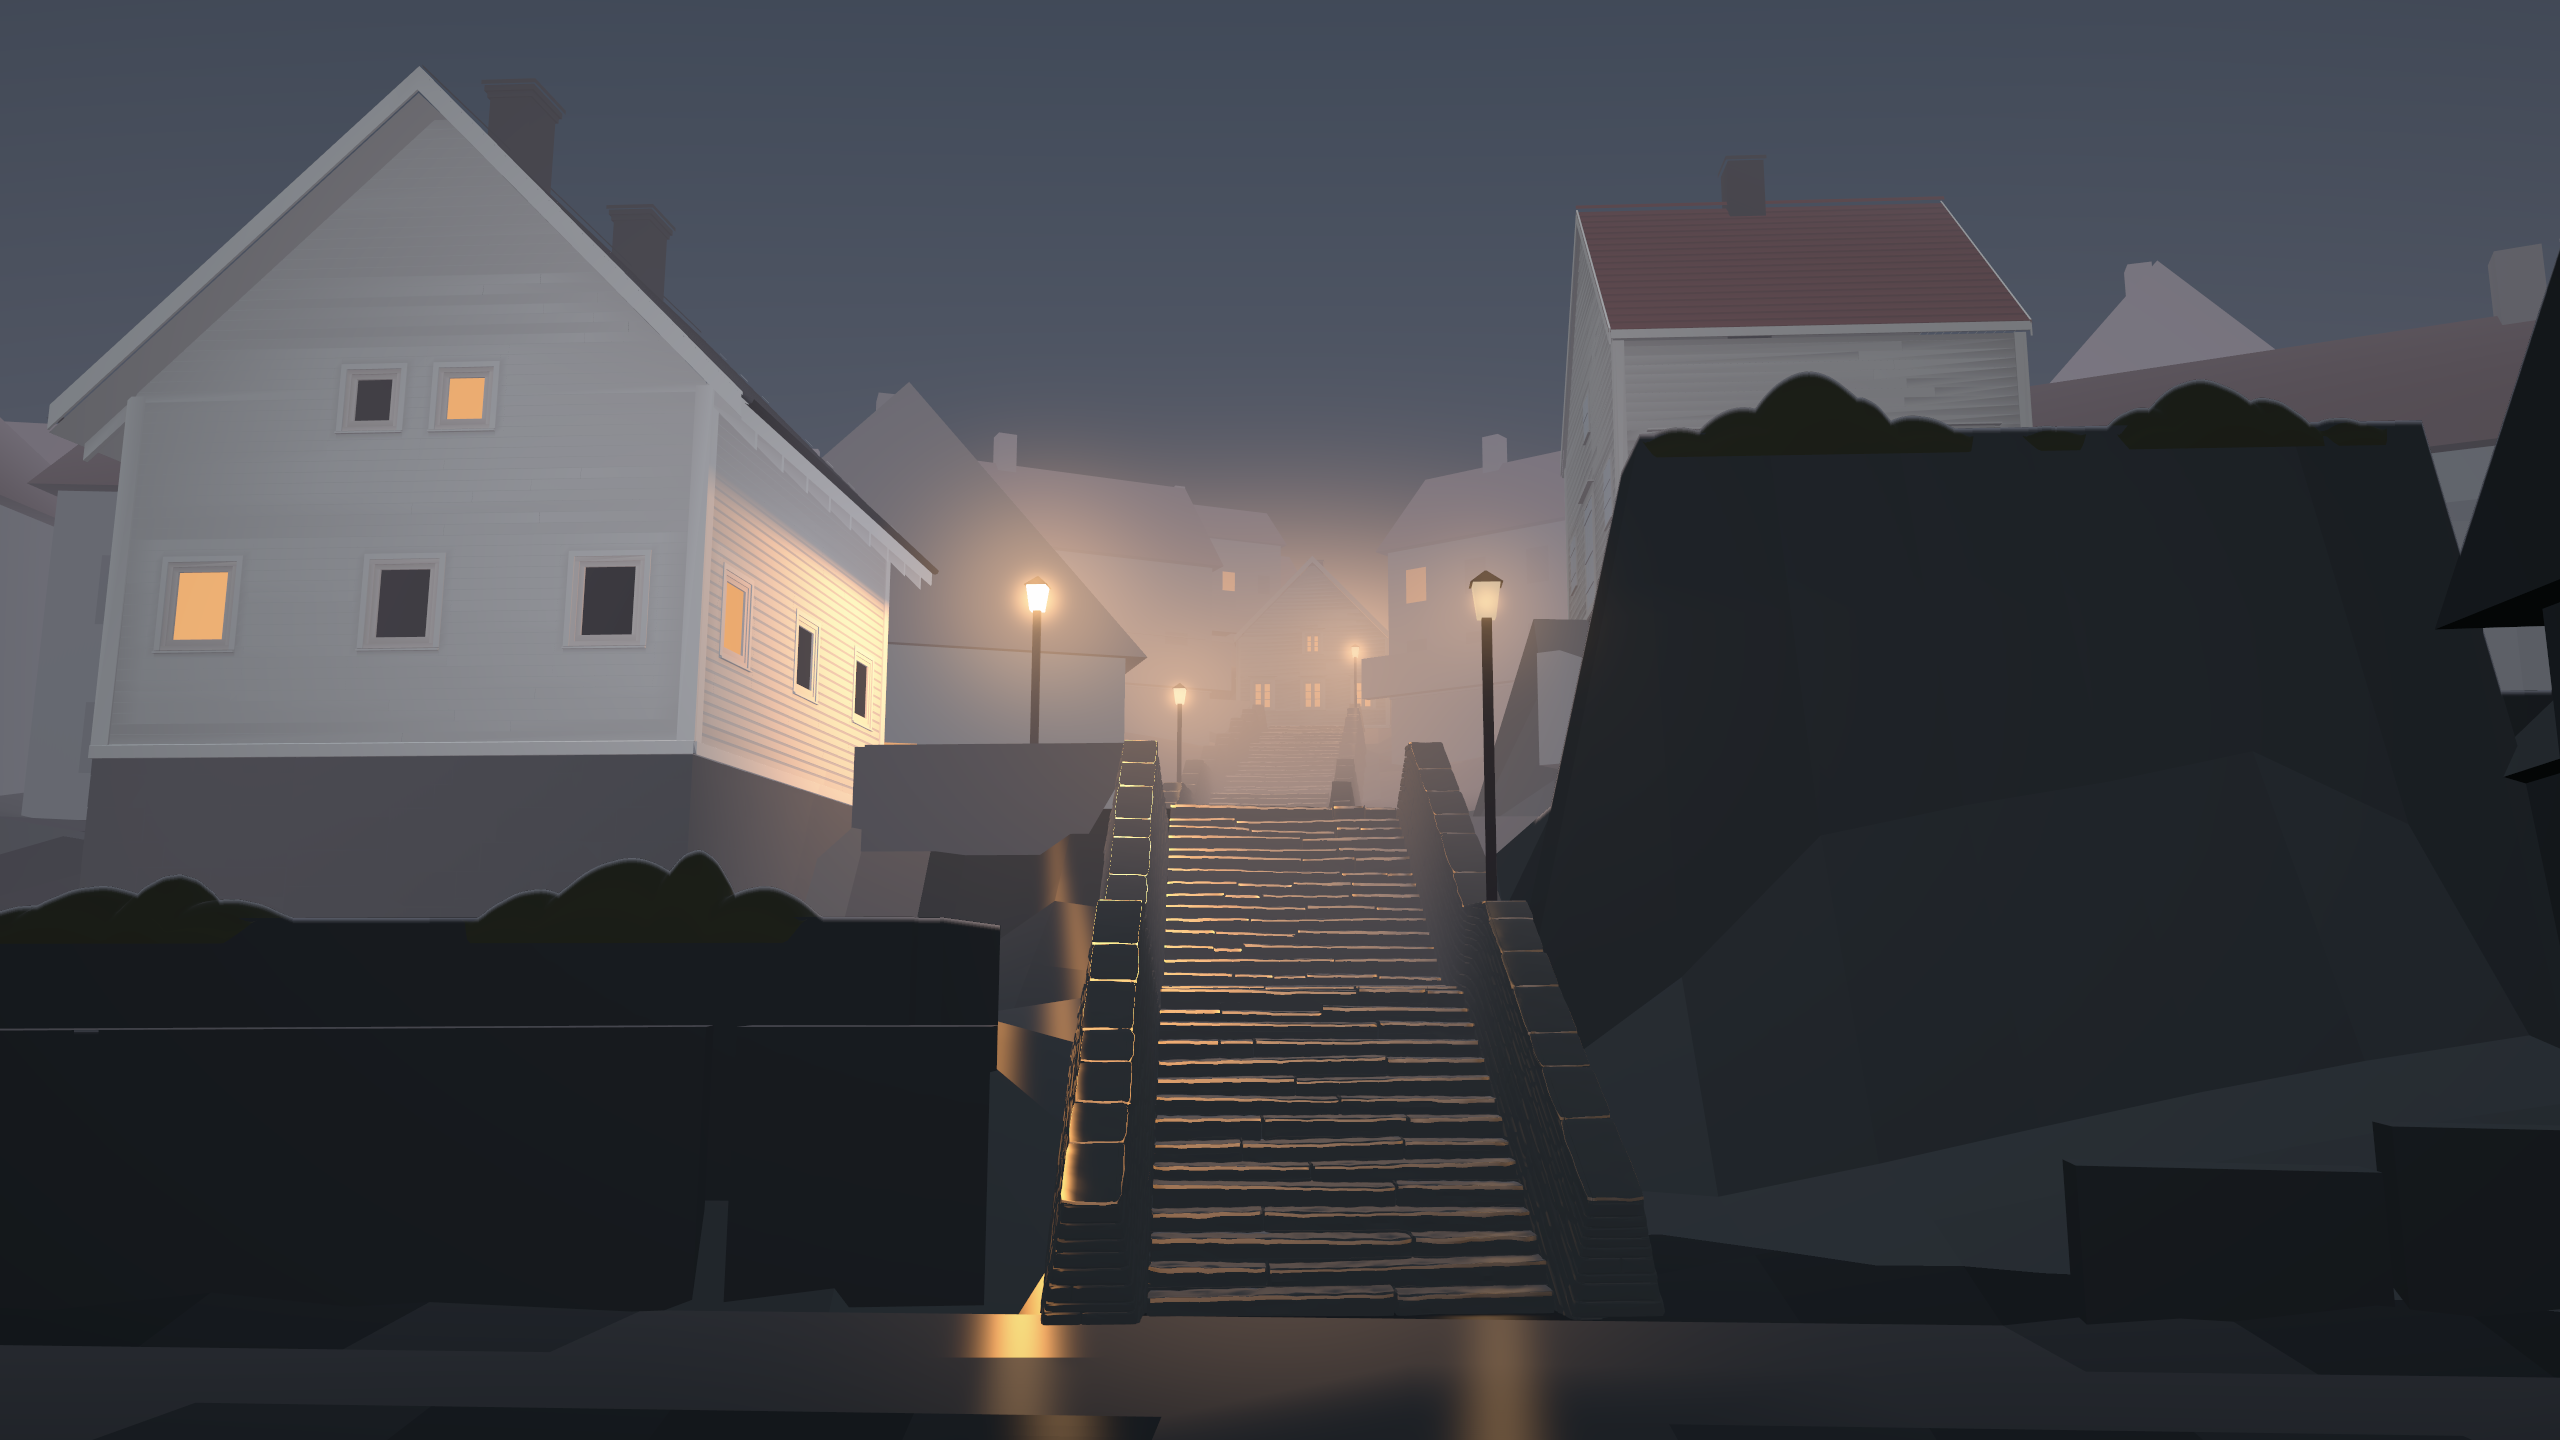
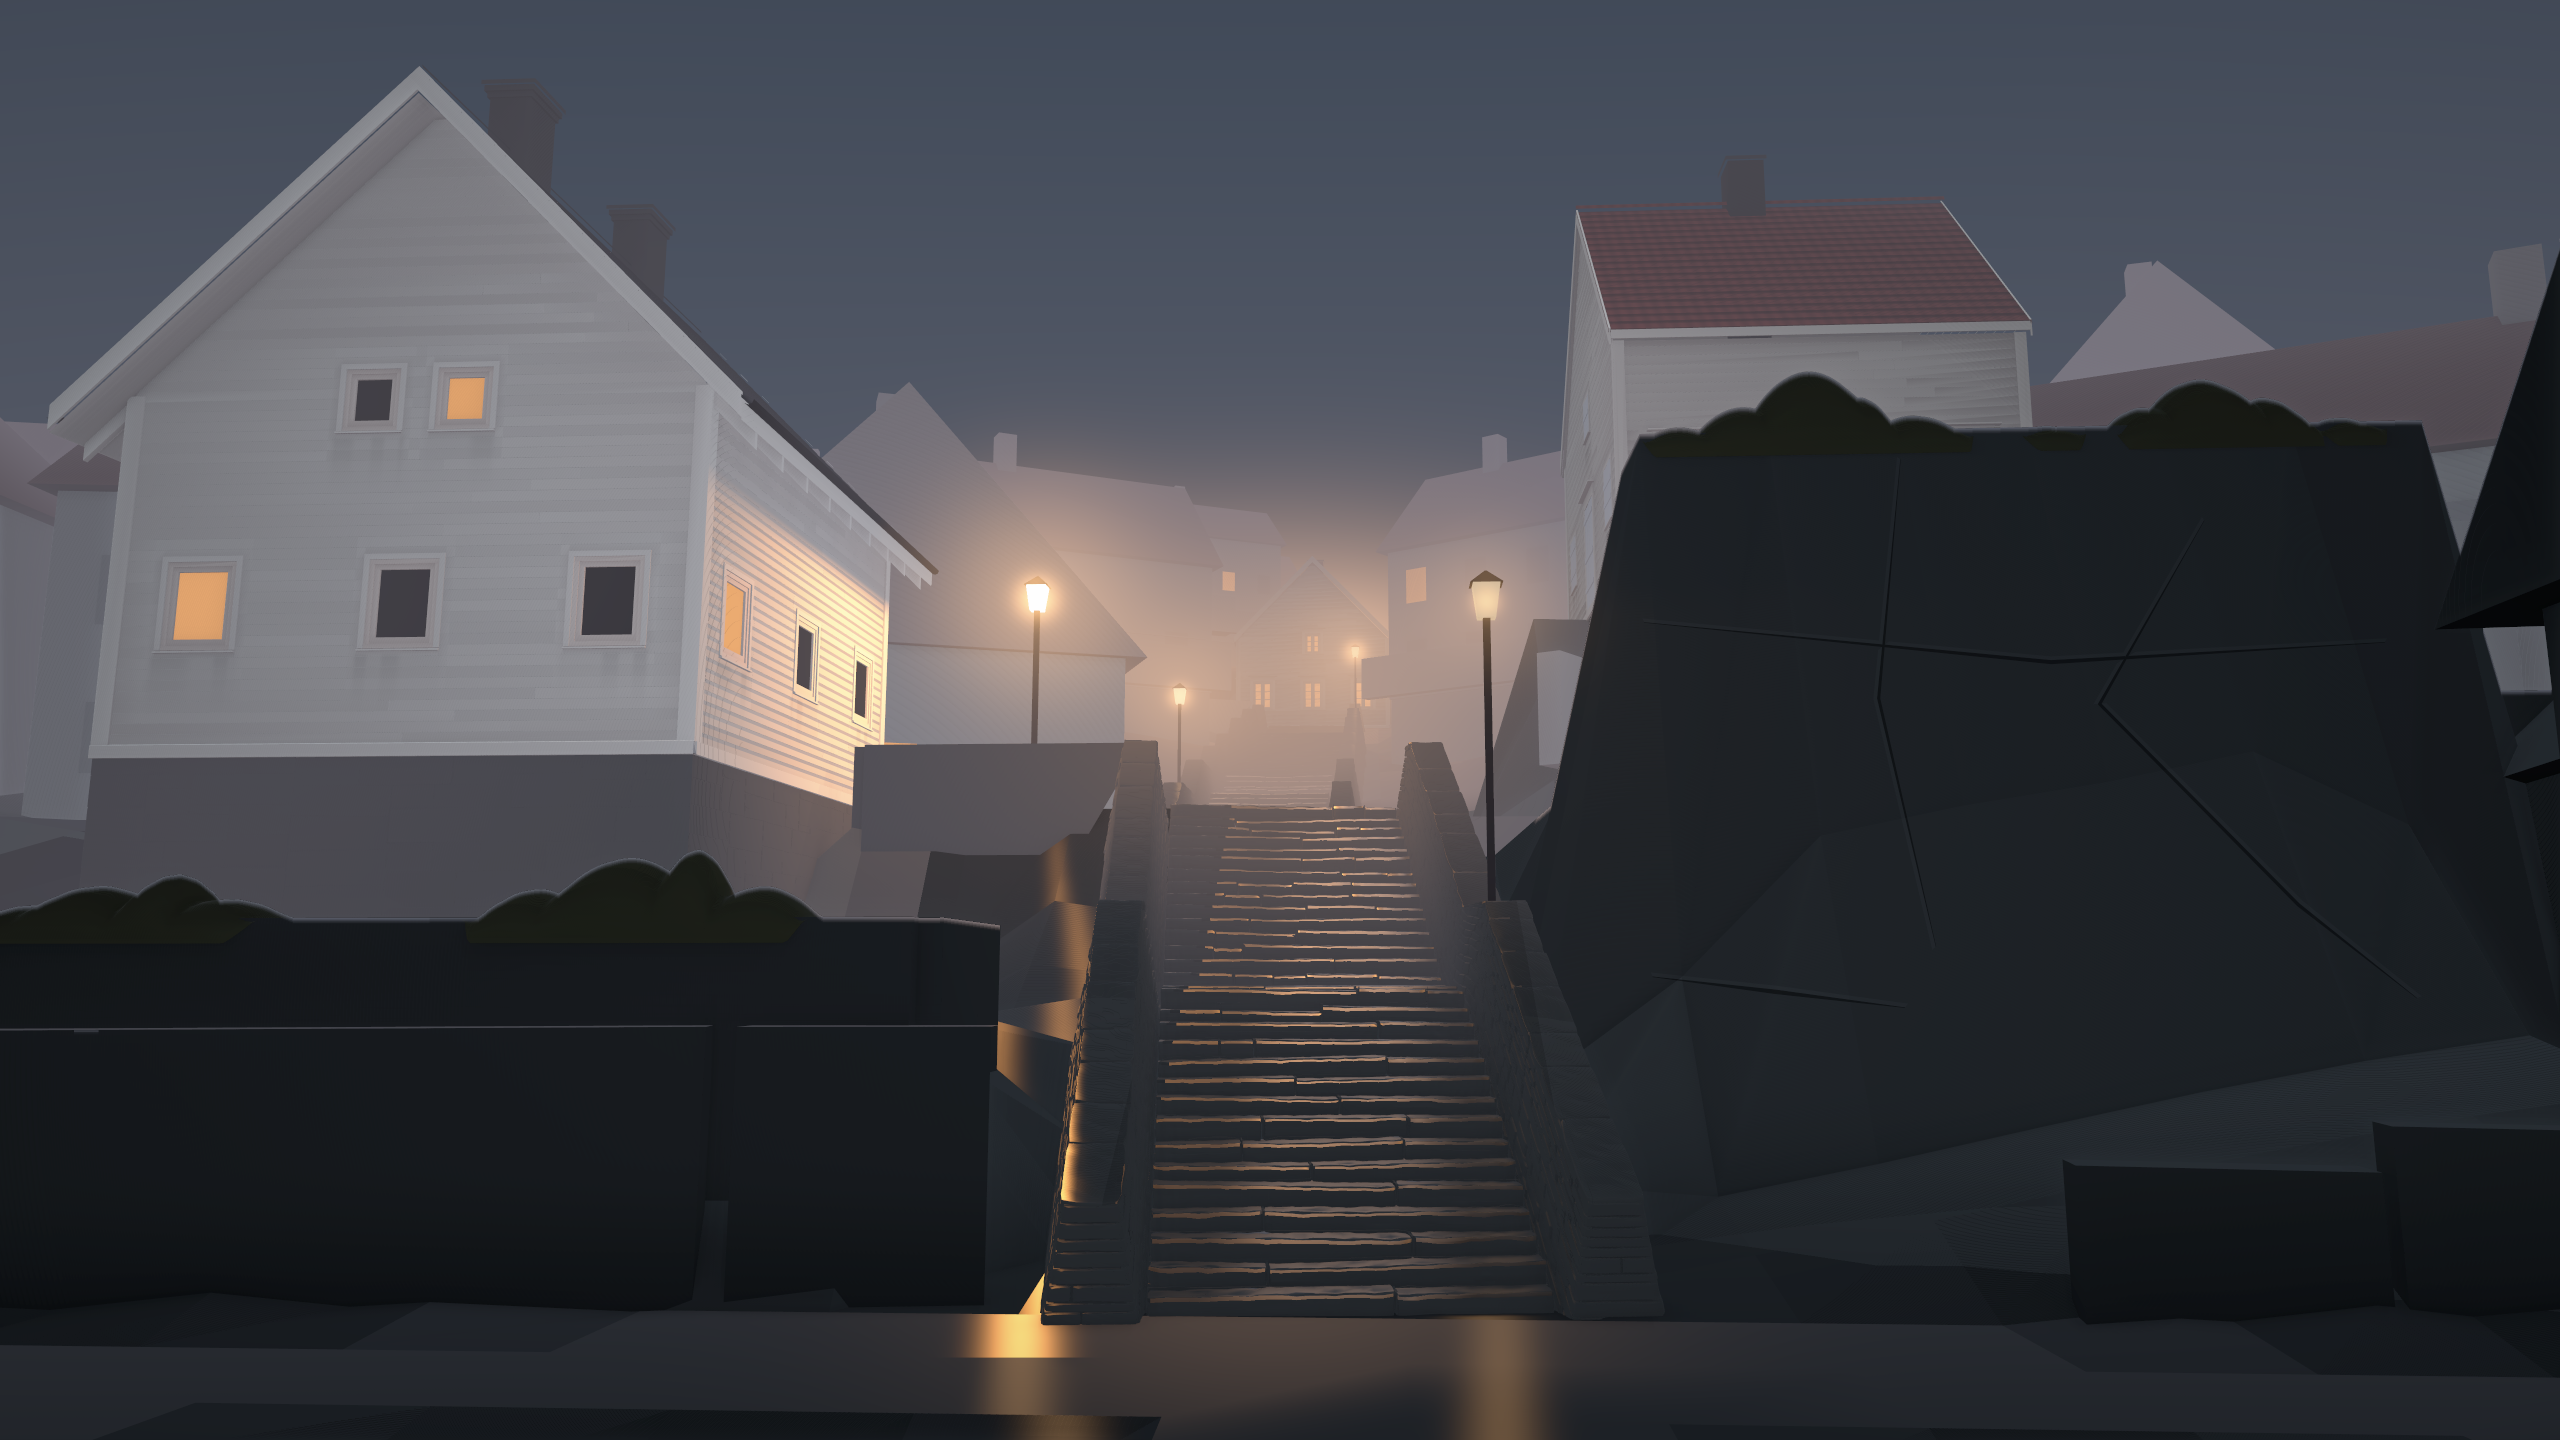
LT1: art direction: the material pass (matte, contact shade, a darker foot, one mark per material, the worn flight)

Changed region(s): [[0.4375, 0.5625, 0.5, 0.9062], [0.5625, 0.7188, 0.5938, 0.9062]]

diff --git a/unity/Assets/Code/Editor/LT1ArtPasses.cs b/unity/Assets/Code/Editor/LT1ArtPasses.cs
@@ -162,7 +162,8 @@ namespace Overstory.EditorTools
 
         [System.Serializable] class PGlobal { public string name, srgb; public float[] v, pos, dir; public float a = 1f, w; }
         [System.Serializable] class PSurface { public int slot; public string srgb; public float keep, wet, calm, gloss; public float lamp = 1f, veil = 1f; }
-        [System.Serializable] class PMass { public int slot; public float[] box, nz; }
+        [System.Serializable] class PMass { public int slot; public float[] box, nz, foot; }
+        [System.Serializable] class PCrack { public string name; public float width; public float[] points; }
         [System.Serializable] class PClay { public int wall, ground, roof, glass; public float[] roofNz; }
         [System.Serializable] class PHide { public float[] box; public int cls; }
         [System.Serializable] class PCover { public string name; public int slot; }
@@ -184,6 +185,7 @@ namespace Overstory.EditorTools
             public PCover[] covers;
             public PLantern lantern;
             public PTuft[] tufts;
+            public PCrack[] cracks;
             public PLamp[] lamps;
         }
         // the houses' records (cache/houses/houses.json): only what the painted frame reads, their coats and roofs
@@ -380,13 +382,39 @@ namespace Overstory.EditorTools
                 var mMin = new Vector4[16];
                 var mMax = new Vector4[16];
                 var mN = new Vector4[16];
+                var mFoot = new Vector4[16];
                 for (int k = 0; k < P.masses.Length; k++)
                 {
                     var b = P.masses[k].box;
                     mMin[k] = new Vector4(b[0], b[1], b[2], P.masses[k].slot);
                     mMax[k] = new Vector4(b[3], b[4], b[5], 1f);
                     mN[k] = new Vector4(P.masses[k].nz[0], P.masses[k].nz[1], 0f, 0f);
+                    var f = P.masses[k].foot;
+                    if (Has(f))
+                        mFoot[k] = new Vector4(f[0], f[1], f[2], 0f);
                 }
+                Shader.SetGlobalVectorArray("_P_MassFoot", mFoot);
+                // the rock's crack and bedding lines: each a run of street points, cut into segments (world)
+                var crA = new Vector4[24];
+                var crB = new Vector4[24];
+                int crN = 0;
+                if (P.cracks != null)
+                    foreach (var cr in P.cracks)
+                    {
+                        // a line is widest in its middle and tapers to its two ends
+                        int last = cr.points.Length / 3 - 1;
+                        float Wd(int j) => cr.width * (j == 0 || j == last ? 0.15f : 1f);
+                        for (int j = 0; j < last && crN < 24; j++, crN++)
+                        {
+                            Vector3 a = Street(new[] { cr.points[3 * j], cr.points[3 * j + 1], cr.points[3 * j + 2] });
+                            Vector3 bb = Street(new[] { cr.points[3 * j + 3], cr.points[3 * j + 4], cr.points[3 * j + 5] });
+                            crA[crN] = new Vector4(a.x, a.y, a.z, Wd(j));
+                            crB[crN] = new Vector4(bb.x, bb.y, bb.z, Wd(j + 1));
+                        }
+                    }
+                Shader.SetGlobalVectorArray("_P_CrackA", crA);
+                Shader.SetGlobalVectorArray("_P_CrackB", crB);
+                Shader.SetGlobalFloat("_P_CrackCount", crN);
                 Shader.SetGlobalVectorArray("_P_MassMin", mMin);
                 Shader.SetGlobalVectorArray("_P_MassMax", mMax);
                 Shader.SetGlobalVectorArray("_P_MassN", mN);
